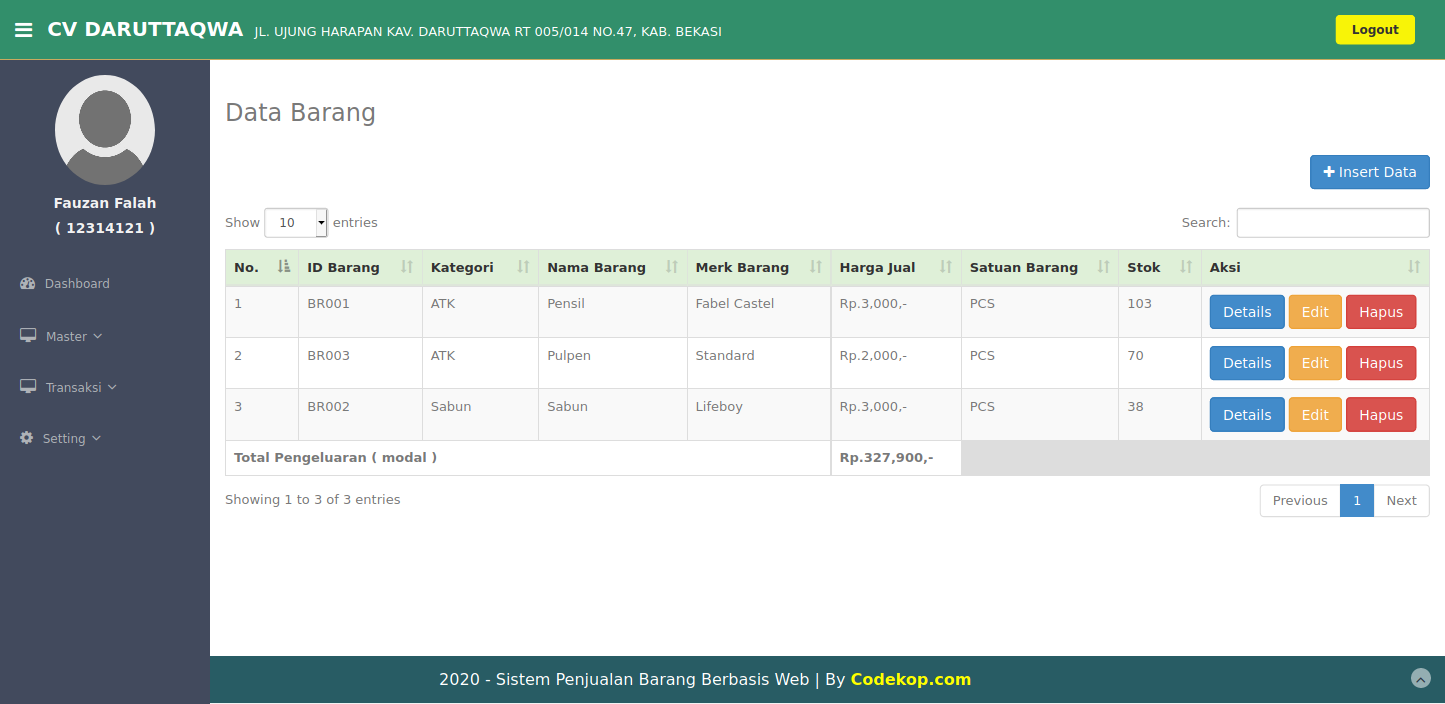
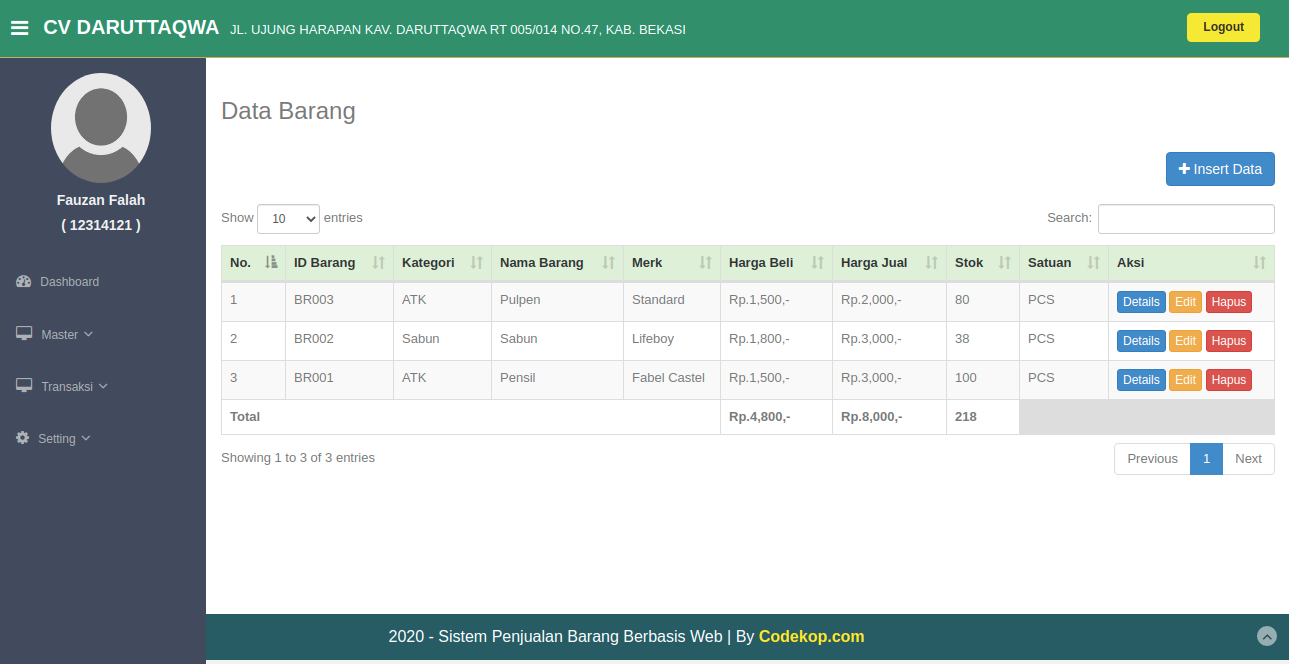
update cek

diff --git a/admin/module/laporan/index.php b/admin/module/laporan/index.php
@@ -9,50 +9,46 @@
 
               <div class="row">
                   <div class="col-lg-12 main-chart">
-						<h3>Data Laporan
+						<h3>Data Laporan Penjualan
 							<!--<a  style="padding-left:2pc;" href="fungsi/hapus/hapus.php?laporan=jual" onclick="javascript:return confirm('Data Laporan akan di Hapus ?');">
 								<button class="btn btn-danger">RESET</button>
 							</a>-->
 							<?php if(!empty($_GET['cari'])){
-								echo 'Periode Bulan ke - '.$_POST['bln'].'/'.$_POST['thn'];
+								echo 'Periode Bulan ke - '.$_POST['bln'].' Tahun '.$_POST['thn'];
 							}
 							?>
-							
-							<a style="padding-left:2pc;" href="index.php?page=laporan">
-								<button class="btn btn-success">Refresh</button></a>
 						</h3>
 						<br/>
-						<h4>Cari Laporan Per Perbulan</h4>
-						<br/>
+						<h4>Cari Laporan Per Bulan</h4>
 						<form method="post" action="index.php?page=laporan&cari=ok">
-							<table>
+							<table class="table table-striped">
 								<tr>
-								<td style="padding-left:2pc;padding-bottom:1pc;">
-									Pilih Bulan
-								</td>
-								<td style="padding-left:2pc;padding-bottom:1pc;">
-									Pilih Tahun
-								</td>
-								<td style="padding-left:2pc;padding-bottom:1pc;">
-									Aksi
-								</td>
+									<th>
+										Pilih Bulan
+									</th>
+									<th>
+										Pilih Tahun
+									</th>
+									<th>
+										Aksi
+									</th>
 								</tr>
 								<tr>
-								<td style="padding-left:2pc;">
+								<td>
 								<select name="bln" class="form-control">
 									<option selected="selected">Bulan</option>
 									<?php
-									$bulan=array("Januari","Februari","Maret","April","Mei","Juni","Juli","Agustus","September","Oktober","November","Desember");
-									$jlh_bln=count($bulan);
-									$bln1 = array('01','02','03','04','05','06','07','08','09','10','11','12');
-									$no=1;
-									for($c=0; $c<$jlh_bln; $c+=1){
-										echo"<option value='$bln1[$c]'> $bulan[$c] </option>";
-									$no++;}
+										$bulan=array("Januari","Februari","Maret","April","Mei","Juni","Juli","Agustus","September","Oktober","November","Desember");
+										$jlh_bln=count($bulan);
+										$bln1 = array('01','02','03','04','05','06','07','08','09','10','11','12');
+										$no=1;
+										for($c=0; $c<$jlh_bln; $c+=1){
+											echo"<option value='$bln1[$c]'> $bulan[$c] </option>";
+										$no++;}
 									?>
 									</select>
 								</td>
-								<td style="padding-left:2pc;">
+								<td>
 								<?php
 									$now=date('Y');
 									echo "<select name='thn' class='form-control'>";
@@ -65,23 +61,20 @@
 									echo "</select>";
 									?>
 								</td>
-								<td style="padding-left:2pc;">
+								<td>
 									<input type="hidden" name="periode" value="ya">
 									<button class="btn btn-primary">
 										<i class="fa fa-search"></i> Cari
 									</button>
+									<a href="index.php?page=laporan" class="btn btn-success">
+										<i class="fa fa-refresh"></i> Refresh</a>
 								</td>
 								</tr>
 							</table>
 						</form>
+						<div class="clearfix" style="border-top:1px solid #ccc;"></div>
 						<br/>
 						<br/>
-						<?php if(isset($_GET['remove'])){?>
-						<div class="alert alert-danger">
-							<p>Hapus Data Berhasil !</p>
-						</div>
-						<?php }?>
-						
 						<?php if(!empty($_GET['cari'])){?>
 						<!-- view barang -->	
 						<div class="modal-view">
@@ -101,10 +94,12 @@
 									<?php 
 										$periode = $_POST['bln'].'-'.$_POST['thn'];
 										$no=1; 
+										$jumlah = 0;
 										$bayar = 0;
 										$hasil = $lihat -> periode_jual($periode);
 										foreach($hasil as $isi){
 											$bayar += $isi['total'];
+											$jumlah += $isi['jumlah'];
 									?>
 									<tr>
 										<td><?php echo $no;?></td>
@@ -120,13 +115,13 @@
 								</tbody>
 								<tfoot>
 									<tr>
-										<th colspan="4">Pemasukan</td>
+										<th colspan="3">Total Terjual</td>
+										<th><?php echo $jumlah;?></td>
 										<th>Rp.<?php echo number_format($bayar);?>,-</td>
 										<th colspan="2" style="background:#ddd"></th>
 									</tr>
 								</tfoot>
 							</table>
-							<div class="clearfix" style="padding-top:27%;"></div>
 						</div>
 						<?php }else{?>
 						<!-- view barang -->	
@@ -146,9 +141,11 @@
 								<tbody>
 									<?php $no=1; $hasil = $lihat -> jual();?>
 									<?php 
-									$bayar = 0;
-									foreach($hasil as $isi){ 
+										$bayar = 0;
+										$jumlah = 0;
+										foreach($hasil as $isi){ 
 											$bayar += $isi['total'];
+											$jumlah += $isi['jumlah'];
 									?>
 									<tr>
 										<td><?php echo $no;?></td>
@@ -164,15 +161,16 @@
 								</tbody>
 								<tfoot>
 									<tr>
-										<th colspan="4">Total Pemasukan</td>
+										<th colspan="3">Total Terjual</td>
+										<th><?php echo $jumlah;?></td>
 										<th>Rp.<?php echo number_format($bayar);?>,-</td>
 										<th colspan="2" style="background:#ddd"></th>
 									</tr>
 								</tfoot>
 							</table>
-							<div class="clearfix" style="padding-top:27%;"></div>
 						</div>
 						<?php }?>
+							<div class="clearfix" style="padding-top:5pc;"></div>
 					</div>
 				  </div>
               </div>

diff --git a/admin/module/barang/index.php b/admin/module/barang/index.php
@@ -40,18 +40,23 @@
 										<th>ID Barang</th>
 										<th>Kategori</th>
 										<th>Nama Barang</th>
-										<th>Merk Barang</th>
+										<th>Merk</th>
+										<th>Harga Beli</th>
 										<th>Harga Jual</th>
-										<th>Satuan Barang</th>
 										<th>Stok</th>
+										<th>Satuan</th>
 										<th>Aksi</th>
 									</tr>
 								</thead>
 								<tbody>
+
 								<?php 
+									$totalBeli = 0;
+									$totalJual = 0;
+									$totalStok = 0;
 									$hasil = $lihat -> barang();
 									$no=1;
-									foreach($hasil as $isi){
+									foreach($hasil as $isi) {
 								?>
 									<tr>
 										<td><?php echo $no;?></td>
@@ -59,8 +64,8 @@
 										<td><?php echo $isi['nama_kategori'];?></td>
 										<td><?php echo $isi['nama_barang'];?></td>
 										<td><?php echo $isi['merk'];?></td>
+										<td>Rp.<?php echo number_format($isi['harga_beli']);?>,-</td>
 										<td>Rp.<?php echo number_format($isi['harga_jual']);?>,-</td>
-										<td> <?php echo $isi['satuan_barang'];?></td>
 										<td>
 											<?php if($isi['stok'] == '0'){?>
 												<button class="btn btn-danger"> Habis</button>
@@ -68,6 +73,7 @@
 												<?php echo $isi['stok'];?>
 											<?php }?>
 										</td>
+										<td> <?php echo $isi['satuan_barang'];?></td>
 										<td>
 											
 											<?php if($isi['stok'] <=  '3'){?>
@@ -79,22 +85,27 @@
 													</button>
 												</form>
 											<?php }else{?>
-											<a href="index.php?page=barang/details&barang=<?php echo $isi['id_barang'];?>"><button class="btn btn-primary">Details</button></a>
-											<a href="index.php?page=barang/edit&barang=<?php echo $isi['id_barang'];?>"><button class="btn btn-warning">Edit</button></a>
-											<a href="fungsi/hapus/hapus.php?barang=hapus&id=<?php echo $isi['id_barang'];?>" onclick="javascript:return confirm('Hapus Data barang ?');"><button class="btn btn-danger">Hapus</button></a>
+											<a href="index.php?page=barang/details&barang=<?php echo $isi['id_barang'];?>"><button class="btn btn-primary btn-xs">Details</button></a>
+											<a href="index.php?page=barang/edit&barang=<?php echo $isi['id_barang'];?>"><button class="btn btn-warning btn-xs">Edit</button></a>
+											<a href="fungsi/hapus/hapus.php?barang=hapus&id=<?php echo $isi['id_barang'];?>" onclick="javascript:return confirm('Hapus Data barang ?');"><button class="btn btn-danger btn-xs">Hapus</button></a>
 											<?php }?>
 										</td>
 									</tr>
-								<?php $no++; }?>
+								<?php 
+										$no++; 
+										$totalBeli += $isi['harga_beli']; 
+										$totalJual += $isi['harga_jual'];
+										$totalStok += $isi['stok'];
+									}
+								?>
 								</tbody>
 								<tfoot>
-								<?php 
-									$c = $lihat -> jml();
-								?>
 									<tr>
-										<th colspan="5">Total Pengeluaran ( modal )</td>
-										<th>Rp.<?php echo number_format($c['byr']);?>,-</td>
-										<th colspan="3" style="background:#ddd"></th>
+										<th colspan="5">Total </td>
+										<th>Rp.<?php echo number_format($totalBeli);?>,-</td>
+										<th>Rp.<?php echo number_format($totalJual);?>,-</td>
+										<th><?php echo $totalStok;?></td>
+										<th colspan="2" style="background:#ddd"></th>
 									</tr>
 								</tfoot>
 							</table>

diff --git a/config.php b/config.php
@@ -2,13 +2,19 @@
 date_default_timezone_set("Asia/Jakarta");
 error_reporting(0);
 
-	$user = 'root'; $pass = '';
+	// sesuaikan dengan server anda
+	$host 	= 'localhost'; // host server
+	$user 	= 'root';  // username server
+	$pass 	= ''; // password server, kalau pakai xampp kosongin saja
+	$dbname = 'db_toko'; // nama database anda
+	
 	try{
-		$config = new PDO('mysql:host=localhost;dbname=db_toko;', $user,$pass);
+		$config = new PDO("mysql:host=$host;dbname=$dbname;", $user,$pass);
 		//echo 'sukses';
 	}catch(PDOException $e){
 		echo 'KONEKSI GAGAL' .$e -> getMessage();
 	}
-	$view = 'fungsi/view/view.php'; // DIREKTORI PROSES SELECT /
+	
+	$view = 'fungsi/view/view.php'; // direktori fungsi select data
 ?>
 

diff --git a/admin/module/jual/index.php b/admin/module/jual/index.php
@@ -25,7 +25,7 @@
 						</div>
 						<?php }?>
 						<div class="col-sm-4">
-							<div class="panel panel-info">
+							<div class="panel panel-primary">
 								<div class="panel-heading">
 									<h4><i class="fa fa-search"></i> Cari Barang</h4>
 								</div>
@@ -35,7 +35,7 @@
 							</div>
 						</div>
 						<div class="col-sm-8">
-							<div class="panel panel-info">
+							<div class="panel panel-primary">
 								<div class="panel-heading">
 									<h4><i class="fa fa-list"></i> Hasil Pencarian</h4>
 								</div>

diff --git a/fungsi/view/view.php b/fungsi/view/view.php
@@ -45,7 +45,8 @@
 
 			function barang(){
 				$sql = "select barang.*, kategori.id_kategori, kategori.nama_kategori
-						from barang inner join kategori on barang.id_kategori = kategori.id_kategori";
+						from barang inner join kategori on barang.id_kategori = kategori.id_kategori 
+						ORDER BY id_barang DESC";
 				$row = $this-> db -> prepare($sql);
 				$row -> execute();
 				$hasil = $row -> fetchAll();
